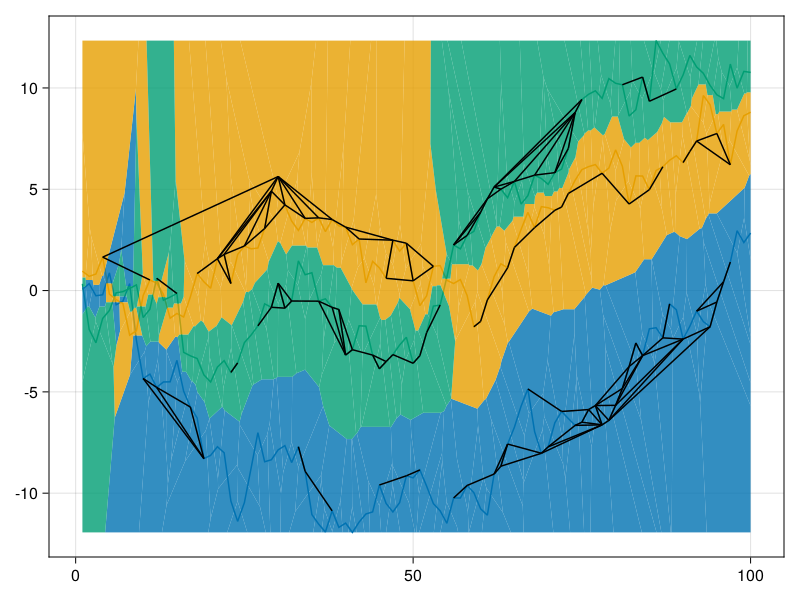
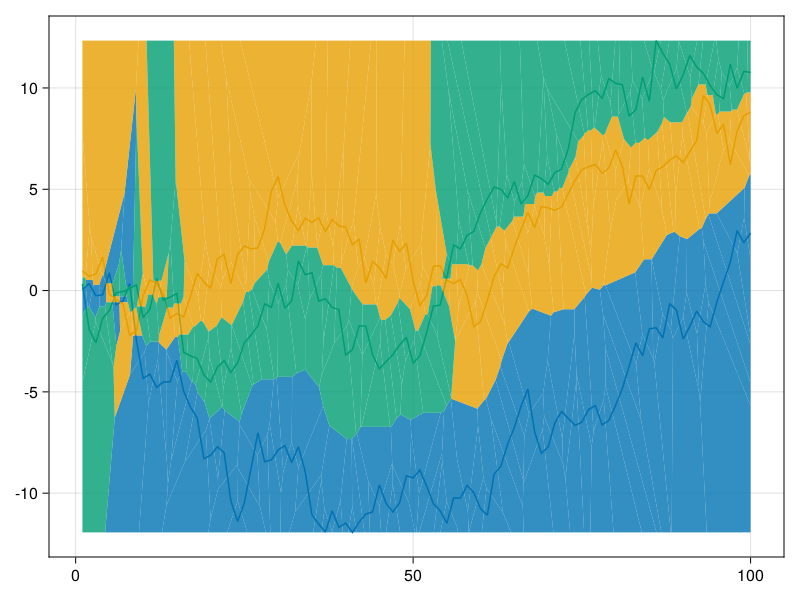
Small updates

diff --git a/label-explainer.md b/label-explainer.md
@@ -1,95 +1,17 @@
 ## Explain how the labeling works. 
 The ideas here are heavily, heavily inspired by 
 [a post on using Voronoi cells to directly label lines by Harry Stevens](https://observablehq.com/@harrystevens/directly-labelling-lines).
+[Voronoi cells](https://en.wikipedia.org/wiki/Voronoi_diagram) 
+tesselate space into regions that are _closest_ to a given set of points.
+These are used here to find places where there is space in the plot to put a label. 
 
 ## Setup julia
 
 
 
 
-## We start with a plot
-```julia
-using Random
-Random.seed!(1)
-f = lines(cumsum(randn(100)), label="Are Great",
-  color=Cycled(1), marker=:rect)
-lines!(f.axis, cumsum(randn(100)), label="Direct",
-  color=Cycled(2))
-lines!(f.axis, cumsum(randn(100)), label="Labels",
-  color=Cycled(3))
-f
-```
-
-![](doc/label-explainer_2_1.png)
-
-
-
-## We first create a Voronoi tesselation of the space
-Here, each cell corresponds to a point in the original plot. 
-Each cell color shows the line associated with that color. 
-
-```julia
-plots, labels = Makie.get_labeled_plots(f.axis; merge=false, unique=false)
-points, groups = _get_point_groups(plots)
-rect = _get_points_rect(points)
-edges = Vector{Tuple{Int,Int}}()
-tess = voronoicells(points, rect; edges)
-
-for grpid in eachindex(groups)
-  for cell in tess.Cells[groups[grpid]]
-    poly!(f.axis, cell, color=Cycled(grpid))
-  end 
-end 
-f
-```
-
-![](doc/label-explainer_3_1.png)
-
-
-
-## We want to label a plot in a large region associated with a single line.
-To find this, we use the set of adjacency information from the Delaunay graph,
-and remove any edge that crosses between regions. We also want to remove
-the smallest group of edges. We take a quantilelevel to determine
-a threshold for "small" area. This is set to 50% or the median
-by default. 
-```julia
-edges = _filter_edges!(edges, groups, tess; quantilelevel=0.6) # forward quantilelevel
-
-# now show the edges 
-for edge in edges
-  src,dst = edge[1],edge[2]
-  lines!(f.axis, [points[src], points[dst]], color=:black, linewidth=1.5)
-end
-f # show the figure again
-```
-
-![](doc/label-explainer_4_1.png)
-
-
-
-## To find big regions associated with each plot line, we use connected components analysis.
-This method walks the graph of adjacencies to find connected components. 
-For each connected component, we find the center of its region of Voronoi cells, 
-along with the total area of the region. In addition, we also find a reference
-point as an average of the points closest to the center. Nearby this reference,
-we then also find the largest cells. We then update the direction to 
-point to the center of these large cells nearby the reference. 
-```julia
-regioninfo = _find_regions(edges, points, tess, groups; nearbypoints=5)
-
-for info in regioninfo
-  scatter!(f.axis, [info.ref], markersize=20, color=:darkred)
-  arrows!(f.axis, [info.ref], [info.dir])
-end 
-f # show the figure again
-```
-
-![](doc/label-explainer_5_1.png)
-
-
-
-## Then we simple label points at some offset of that direction. Typically, 0.5 to 1 works well.
+## Simple example, of how this makes it easy to get directly labeled plots. 
+This is how it would with all user-facing code. 
 ```julia
 using Random
 Random.seed!(1)
@@ -113,7 +35,150 @@ labels[1].offset[] = 1.5 # manual tweak of one label
 f
 ```
 
+![](doc/label-explainer_2_1.png)
+
+
+
+## See how it works. 
+
+The setup code will load `voronoi-labels.jl`, which has a set of development codes that 
+I will use in this explainer to draw the pictures. These will all be 
+commented with an `internal:` tag. Eventually, this will be a package, if there
+is interest. 
+
+## We start with a plot
+```julia
+using Random
+Random.seed!(1)
+f = lines(cumsum(randn(100)), label="Are Great",
+  color=Cycled(1), marker=:rect)
+lines!(f.axis, cumsum(randn(100)), label="Direct",
+  color=Cycled(2))
+lines!(f.axis, cumsum(randn(100)), label="Labels",
+  color=Cycled(3))
+f
+```
+
+![](doc/label-explainer_3_1.png)
+
+
+
+## We first a Voronoi tesselation of the space
+Here, each cell corresponds to a point in the original plot. 
+Each cell color shows the line associated with that color. 
+
+```julia
+plots, labels = Makie.get_labeled_plots(f.axis; merge=false, unique=false)
+points, groups = _get_point_groups(plots) # internal: make a unified point list 
+rect = _get_points_rect(points) # internal: get the bounding box 
+edges = Vector{Tuple{Int,Int}}()
+tess = voronoicells(points, rect; edges) # internal: get the voronoi cells and delaunay edges
+
+for grpid in eachindex(groups)
+  for cell in tess.Cells[groups[grpid]]
+    poly!(f.axis, cell, color=Cycled(grpid))
+  end 
+end 
+f
+```
+
+![](doc/label-explainer_4_1.png)
+
+
+
+## We want to label a plot in a large region associated with a single line.
+To find this, we use the set of adjacency information from the Delaunay graph,
+and remove any edge that crosses between regions. We also want to remove
+the smallest group of edges. We take a quantilelevel to determine
+a threshold for "small" area. This is set to 60% or just a bit 
+larger than the median. 
+```julia
+# internal: remove Delaunay edges between points from different plotlines, and
+#           also between areas that are too small. 
+edges = _filter_edges!(edges, groups, tess; quantilelevel=0.6) 
+
+# now show the edges 
+for edge in edges
+  src,dst = edge[1],edge[2]
+  lines!(f.axis, [points[src], points[dst]], color=:black, linewidth=1.5)
+end
+f # show the figure again
+```
+
+![](doc/label-explainer_5_1.png)
+
+
+
+## To find big regions associated with each plot line, we use connected components analysis.
+This method walks the graph of adjacencies to find connected components. 
+For each connected component, we find the center of its region of Voronoi cells, 
+along with the total area of the region. In addition, we also find a reference
+point as an average of the points closest to the center. Nearby this reference,
+we then also find the largest cells. We then update the direction to 
+point to the center of these large cells nearby the reference. 
+
+The arrow in this plot shows the direction from a point on the line into the
+region where there is free space for a label. 
+```julia
+# internal: find the region where we should put a plot, along with a point
+#           on the line and a direction towards the center of the space
+regioninfo = _find_regions(edges, points, tess, groups; nearbypoints=5)
+
+for info in regioninfo
+  scatter!(f.axis, [info.ref], markersize=20, color=:darkred)
+  arrows!(f.axis, [info.ref], [info.dir])
+end 
+f # show the figure again
+```
+
 ![](doc/label-explainer_6_1.png)
+
+
+
+## The idea is that we can scale where the label goes along that direction
+This uses a uniform offset of 1.0 for each plot. 
+```julia
+for (info, label, plot) in zip(regioninfo, labels, plots)
+  lbl = _draw_label(f.axis, info.ref, info.ref+info.dir, 
+      label, plot; offset=1.0)
+end 
+f # show the figure again
+```
+
+![](doc/label-explainer_7_1.png)
+
+
+It's a little hard to see where the actual labels go in this plot due to the color.
+But they are right at the ends of the arrow. 
+
+Now, let's show this all without the extra guidance. 
+
+## Then we simple label points at some offset of that direction. Typically, 0.5 to 1 works well.
+This is how it would with all user-facing code 
+```julia
+using Random
+Random.seed!(1)
+
+f = lines(cumsum(randn(100)), label="Are Great",
+  color=Cycled(1), marker=:rect)
+lines!(f.axis, cumsum(randn(100)), label="Direct",
+  color=Cycled(2))
+lines!(f.axis, cumsum(randn(100)), label="Labels",
+  color=Cycled(3))
+
+# make it look nicer
+f.axis.topspinevisible = false
+f.axis.leftspinevisible = false
+f.axis.rightspinevisible = false
+f.axis.xgridvisible = false
+
+labels = voronoi_labels!(f; offset=1.0)
+labels[1].offset[] = 1.5 # manual tweak of one label 
+
+f
+```
+
+![](doc/label-explainer_8_1.png)
 
 
 
